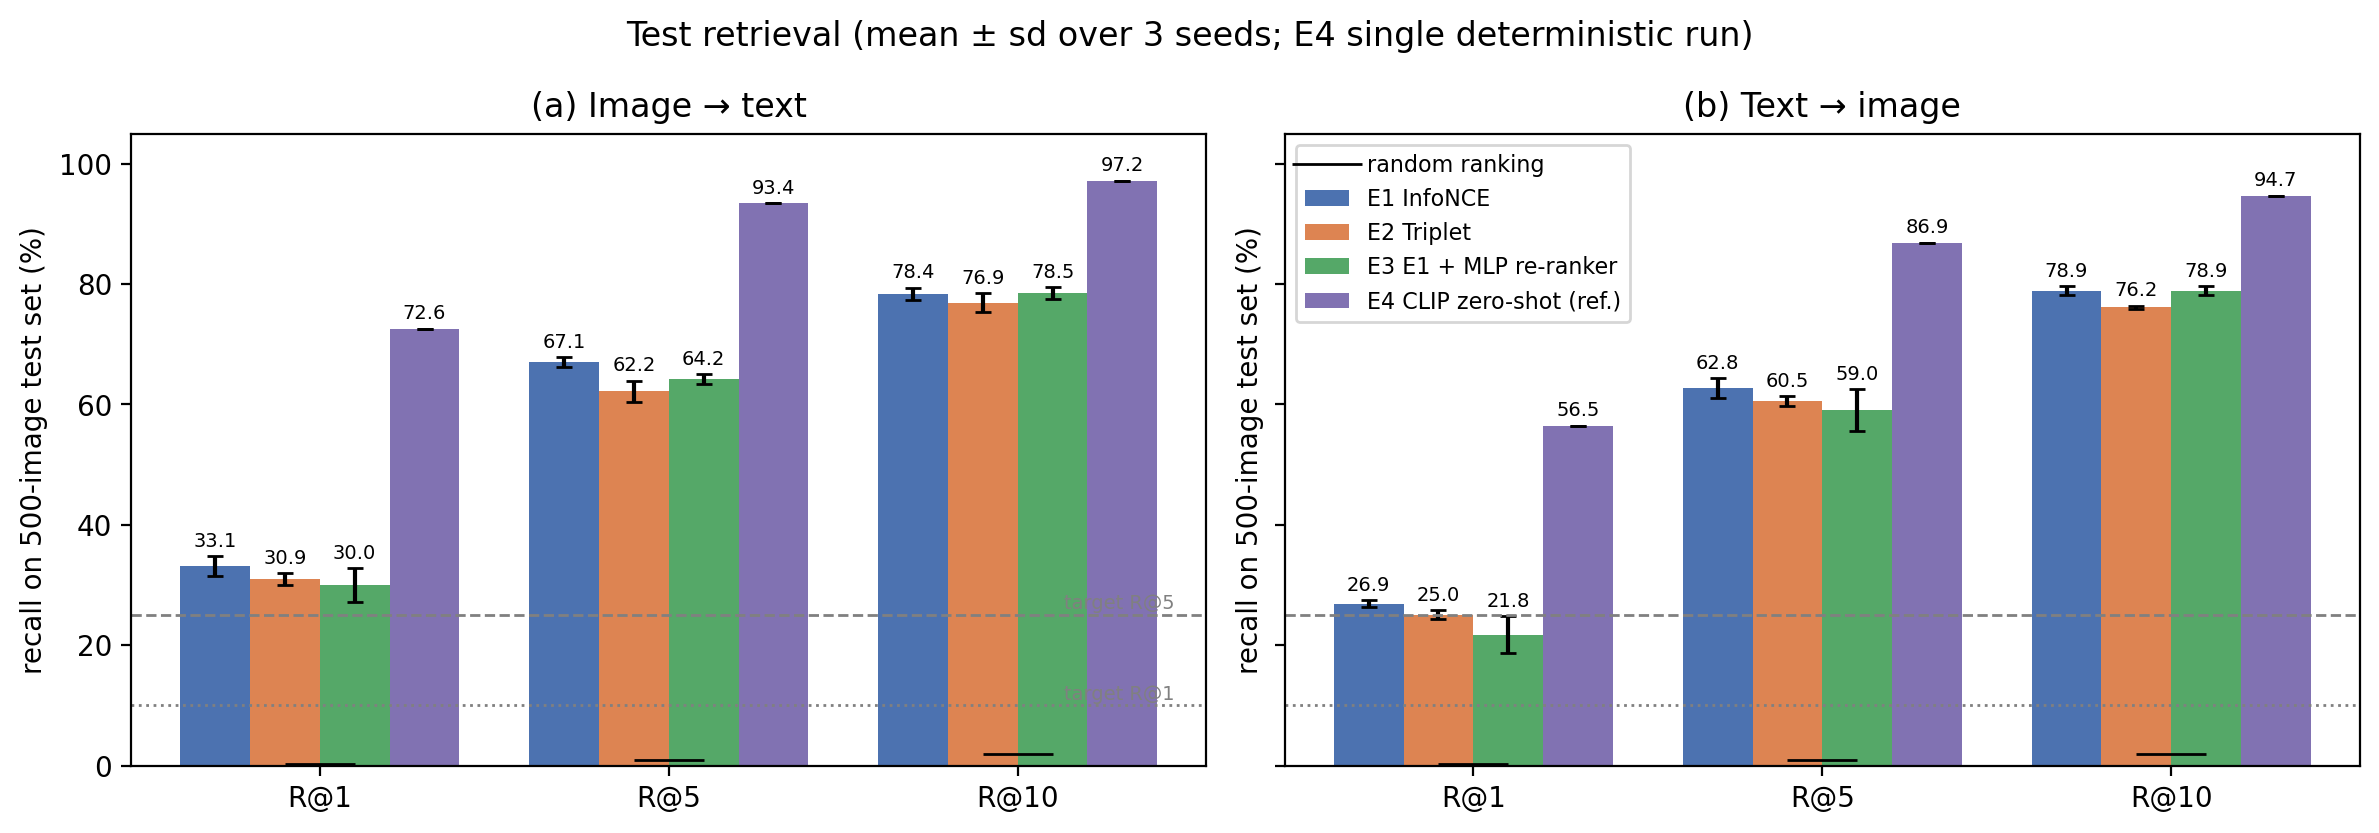
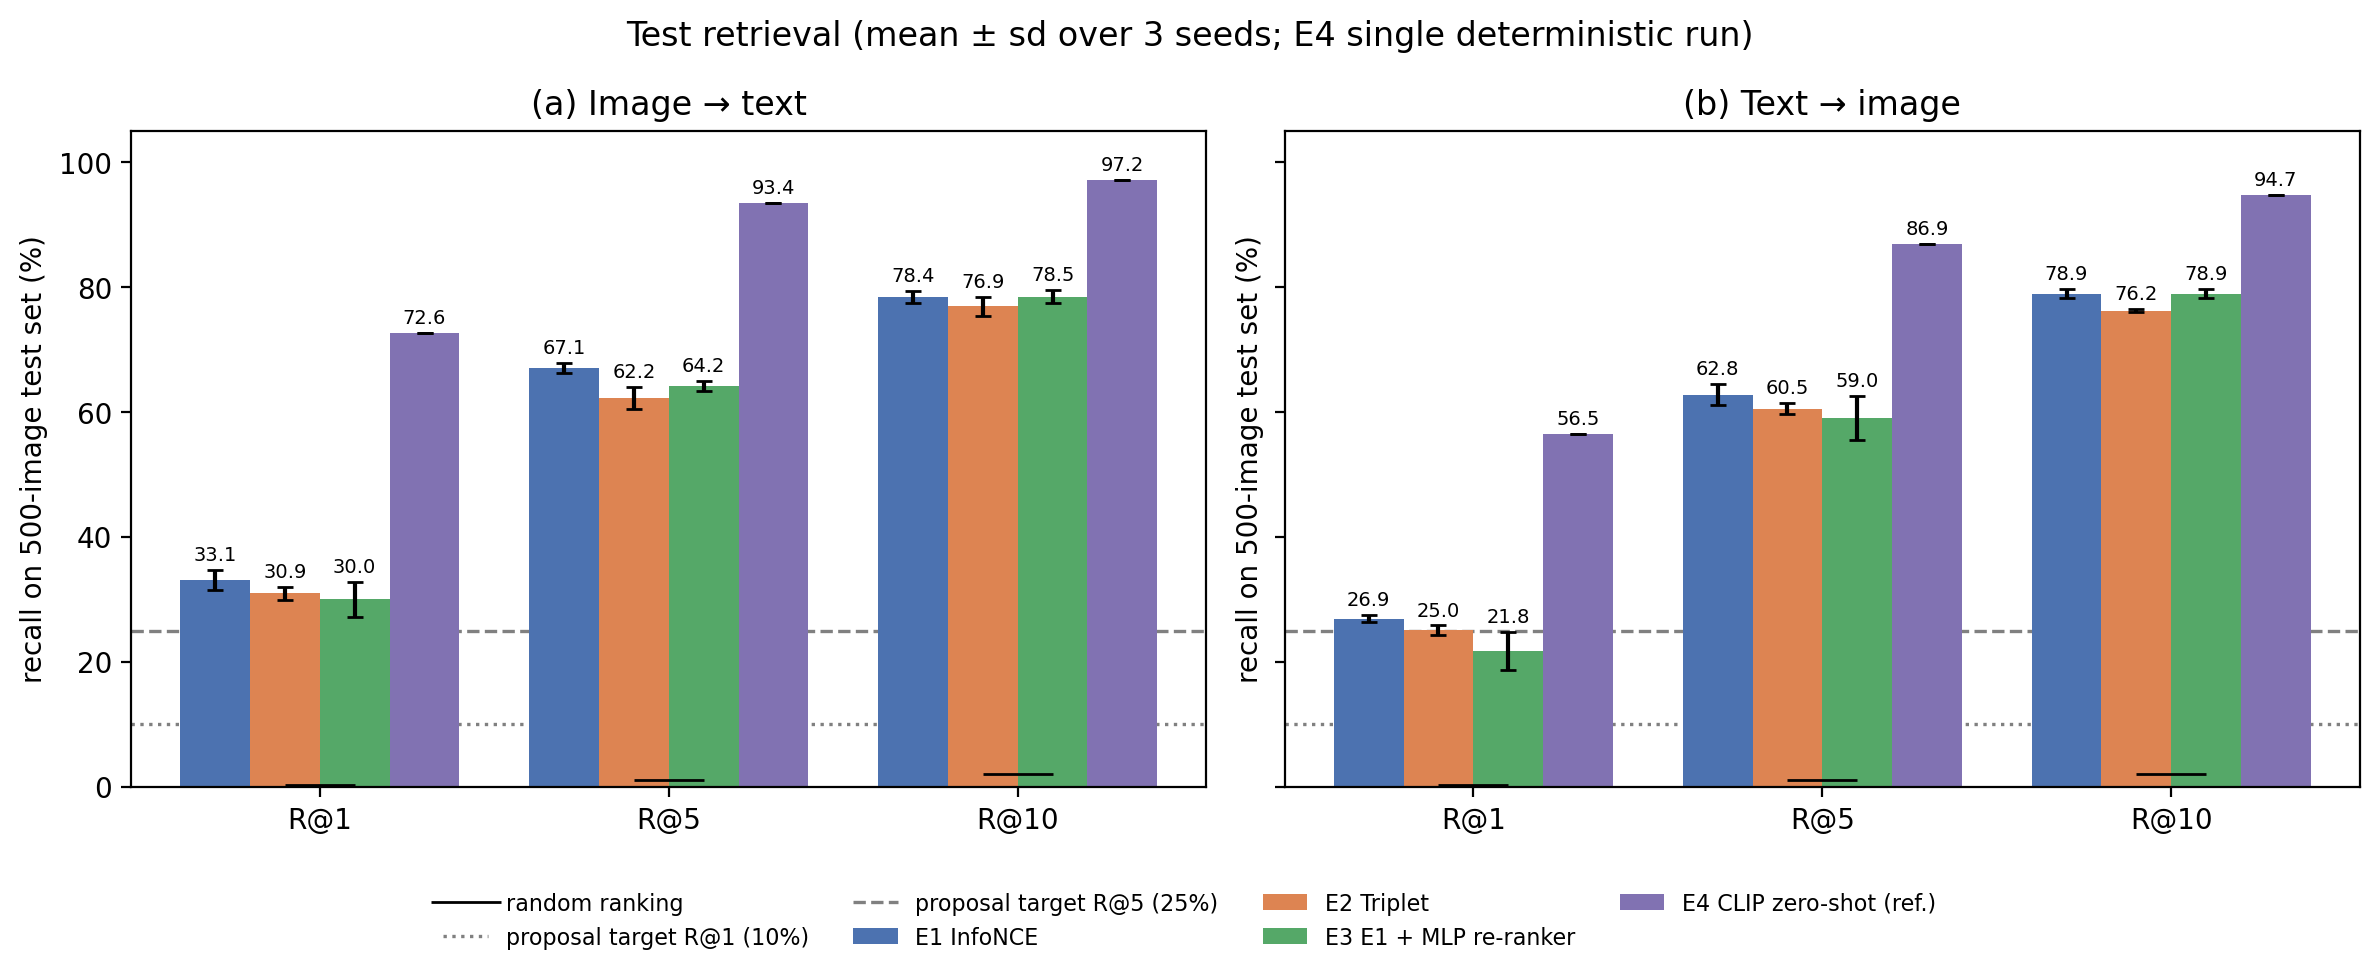
Verified licence names; clearer figure labels

diff --git a/src/plots.py b/src/plots.py
@@ -80,25 +80,25 @@ def plot_06():
     colors = {"E1": BLUE, "E2": ORANGE, "E3": "#55A868", "E4": "#8172B2"}
     labels = {"E1": "E1 InfoNCE", "E2": "E2 Triplet", "E3": "E3 E1 + MLP re-ranker", "E4": "E4 CLIP zero-shot (ref.)"}
     ks = ["R@1", "R@5", "R@10"]
-    fig, axes = plt.subplots(1, 2, figsize=(12, 4.2), sharey=True)
-    for ax, (direction, title) in zip(axes, (("i2t", "(a) Image → text"), ("t2i", "(b) Text → image"))):
+    fig, axes = plt.subplots(1, 2, figsize=(12, 4.8), sharey=True)
+    for ax, (direction, title) in zip(axes, (("i2t", "(a) Image \u2192 text"), ("t2i", "(b) Text \u2192 image"))):
         x = np.arange(len(ks))
         width = 0.2
         for i, (_, r) in enumerate(s.iterrows()):
             means = [r[f"{direction}_{k}_mean"] for k in ks]
             stds = [0 if pd.isna(r[f"{direction}_{k}_std"]) else r[f"{direction}_{k}_std"] for k in ks]
             bars = ax.bar(x + (i - 1.5) * width, means, width, yerr=stds, capsize=3,
-                          color=colors[r["code"]], label=labels[r["code"]])
+                          color=colors[r["code"]], label=labels[r["code"]], zorder=2)
             ax.bar_label(bars, fmt="%.1f", fontsize=7, padding=2)
-        ax.plot(x, [rb[f"{direction}_{k}"] for k in ks], "k_", markersize=25, label="random ranking")
-        ax.axhline(10, color="grey", linestyle=":", linewidth=1)
-        ax.axhline(25, color="grey", linestyle="--", linewidth=1)
+        ax.plot(x, [rb[f"{direction}_{k}"] for k in ks], "k_", markersize=25, label="random ranking", zorder=3)
+        # Target lines are drawn behind the bars and named in the legend (no text labels on the plot).
+        ax.axhline(10, color="grey", linestyle=":", linewidth=1.2, zorder=1, label="proposal target R@1 (10%)")
+        ax.axhline(25, color="grey", linestyle="--", linewidth=1.2, zorder=1, label="proposal target R@5 (25%)")
         ax.set(title=title, xticks=x, xticklabels=ks, ylabel="recall on 500-image test set (%)", ylim=(0, 105))
-    axes[0].text(2.45, 11, "target R@1", fontsize=7, color="grey", ha="right")
-    axes[0].text(2.45, 26, "target R@5", fontsize=7, color="grey", ha="right")
-    axes[1].legend(loc="upper left", fontsize=8)
-    fig.suptitle("Test retrieval (mean ± sd over 3 seeds; E4 single deterministic run)")
-    fig.tight_layout()
+    handles, names = axes[0].get_legend_handles_labels()
+    fig.legend(handles, names, loc="lower center", ncol=4, fontsize=8, frameon=False)
+    fig.suptitle("Test retrieval (mean \u00b1 sd over 3 seeds; E4 single deterministic run)")
+    fig.tight_layout(rect=(0, 0.1, 1, 1))
     save_figure(fig, config.FIGURES / "06_test_recall.png")
     plt.close(fig)
 
@@ -109,7 +109,7 @@ def plot_07():
     labels = {"E1": "E1 InfoNCE", "E2": "E2 Triplet", "E3": "E3 re-ranker", "E4": "E4 CLIP (ref.)"}
     audit = pd.read_csv(config.RESULTS / "07_gender_audit.csv")
     scenes = pd.read_csv(config.RESULTS / "07_scene_groups.csv")
-    fig, axes = plt.subplots(1, 2, figsize=(13, 4.2), gridspec_kw={"width_ratios": [1, 1.6]})
+    fig, axes = plt.subplots(1, 2, figsize=(13, 5), gridspec_kw={"width_ratios": [1, 1.4]})
 
     groups = ["male terms", "female terms", "both", "neither"]
     x = np.arange(len(groups))
@@ -117,22 +117,27 @@ def plot_07():
         a = audit[audit["code"] == code].set_index("gender_group").reindex(groups)
         axes[0].bar(x + (i - 1.5) * 0.2, a["R@5"], 0.2, color=colors[code], label=labels[code])
     n = audit[audit["code"] == "E1"].set_index("gender_group").reindex(groups)["n_queries"]
-    axes[0].set(title="(a) Text → image R@5 by gendered words in the query", ylabel="R@5 on test (%)",
-                xticks=x, xticklabels=[f"{g}\n(n={int(c)})" for g, c in zip(groups, n)], ylim=(0, 100))
-    axes[0].legend(fontsize=8, loc="lower right")
+    axes[0].set(title="(a) By gendered words in the query", ylabel="text \u2192 image R@5 on test (%)",
+                xlabel="query group (n = test captions)",
+                xticks=x, xticklabels=[f"{g}\nn={int(c)}" for g, c in zip(groups, n)], ylim=(0, 100))
 
     names = list(dict.fromkeys(scenes["scene_group"]))
+    short = {"vehicles/street": "vehicles/\nstreet", "indoor rooms": "indoor\nrooms"}
     x = np.arange(len(names))
     for i, code in enumerate(["E1", "E2", "E3", "E4"]):
         s = scenes[scenes["code"] == code].set_index("scene_group").reindex(names)
         axes[1].bar(x + (i - 1.5) * 0.2, s["R@5"], 0.2, color=colors[code], label=labels[code])
     s1 = scenes[scenes["code"] == "E1"].set_index("scene_group").reindex(names)
-    axes[1].set(title="(b) Text → image R@5 by scene keyword group", ylabel="R@5 on test (%)", xticks=x,
-                xticklabels=[f"{g}\n(test n={int(t)}; {p:.1f}% of train)" for g, t, p in
+    axes[1].set(title="(b) By scene keyword group", ylabel="text \u2192 image R@5 on test (%)",
+                xlabel="scene group (n = test captions; % = share of training captions)", xticks=x,
+                xticklabels=[f"{short.get(g, g)}\nn={int(t)}\n{p:.1f}%" for g, t, p in
                              zip(names, s1["n_test_queries"], s1["share_of_train_captions_pct"])], ylim=(0, 100))
-    axes[1].tick_params(axis="x", labelsize=8)
+    for ax in axes:
+        ax.tick_params(axis="x", labelsize=9)
+    handles, lab = axes[0].get_legend_handles_labels()
+    fig.legend(handles, lab, loc="lower center", ncol=4, fontsize=9, frameon=False)
     fig.suptitle("Bias and scene-group audit on the test set (E1-E3: mean over 3 seeds)")
-    fig.tight_layout()
+    fig.tight_layout(rect=(0, 0.06, 1, 1))
     save_figure(fig, config.FIGURES / "07_bias_and_groups.png")
     plt.close(fig)
 

diff --git a/scripts/08_summary.py b/scripts/08_summary.py
@@ -106,7 +106,8 @@ add("|---|---|---|---|---|")
 for r in rows("01_split_summary.csv"):
     add(f"| {r['split']} | {r['n_images']} | {r['n_captions']} | {r['caption_words_mean']} | {src('01_split_summary.csv')} |")
 add("")
-add("Licence audit " + src("01_license_counts.csv") + " (licence names mapped from COCO licence IDs):")
+add("Licence audit " + src("01_license_counts.csv") + " (licence names mapped from COCO licence IDs; "
+    "verified against the official `annotations/captions_val2017.json`):")
 add("")
 add("| licence | train | val | test | total |")
 add("|---|---|---|---|---|")
@@ -249,6 +250,7 @@ for item in [
     "**Individual submission.** The proposal was written by a group of four; 2.2 is implemented individually.",
     "**Hardware.** Proposal pilot used a Tesla T4; this work used an RTX 3050 Laptop GPU with 4 GB (Section 1). "
     "Frozen encoders + cached features (Section 3) keep GPU memory low (peak values in Sections 3 and 7).",
+    "**Timeline.** The proposal's 26 Oct-1 Nov training block was compressed; all code and results were produced in one session on 3 Nov.",
     "**Added E4: zero-shot CLIP ViT-B/32** as a state-of-the-art reference (brief asks for comparison with SOTA). "
     "Not trained; reference only.",
     "**E3 re-ranker design.** Re-orders only E1's top-10; its input is E1's 256-d embeddings "
@@ -278,7 +280,9 @@ for item in [
     "CLIP encode times in `results/05_clip.json` include model loading and a background download; they are not speed measurements. "
     "CLIP's ms/query in Section 7 covers scoring only (embeddings precomputed).",
     "Whether CLIP's web pretraining data overlaps COCO images is unknown; its numbers may be optimistic for that reason.",
-    "COCO licence names were mapped from licence IDs 1-8 as listed in the official COCO 2017 annotation file; verify there.",
+    "COCO licence names: VERIFIED. The names for licence IDs 1-7 (all IDs present in this data) were checked "
+    "against the `licenses` field of the official `annotations/captions_val2017.json` and match "
+    "`results/01_license_counts.csv`.",
     "Gender groups are defined by words in captions (including pronouns), not by who is in the image; "
     "this cannot establish demographic fairness (as the proposal states).",
     "Scene groups overlap (a caption can match several) and are keyword-based approximations.",

diff --git a/config.py b/config.py
@@ -26,7 +26,8 @@ N_TEST = 500                      # train = all remaining images
 INVALID_CAPTION_PATTERNS = ["there is no image here"]
 
 # COCO licence IDs -> names, from the "licenses" field of the official COCO
-# 2017 annotation file (cocodataset.org). Used only for the licence audit.
+# 2017 annotation file (cocodataset.org). IDs 1-7 verified against
+# annotations/captions_val2017.json. Used only for the licence audit.
 COCO_LICENSES = {
     1: "CC BY-NC-SA 2.0",
     2: "CC BY-NC 2.0",

diff --git a/results_summary.md b/results_summary.md
@@ -51,7 +51,7 @@ Settings `results/00_config.json` (copied from `config.py`):
 | val | 500 | 2499 | 10.44 | `results/01_split_summary.csv` |
 | test | 500 | 2498 | 10.41 | `results/01_split_summary.csv` |
 
-Licence audit `results/01_license_counts.csv` (licence names mapped from COCO licence IDs):
+Licence audit `results/01_license_counts.csv` (licence names mapped from COCO licence IDs; verified against the official `annotations/captions_val2017.json`):
 
 | licence | train | val | test | total |
 |---|---|---|---|---|
@@ -234,6 +234,7 @@ Rank 0 = correct image ranked first. Figure: `results/figures/07_bias_and_groups
 
 - **Individual submission.** The proposal was written by a group of four; 2.2 is implemented individually.
 - **Hardware.** Proposal pilot used a Tesla T4; this work used an RTX 3050 Laptop GPU with 4 GB (Section 1). Frozen encoders + cached features (Section 3) keep GPU memory low (peak values in Sections 3 and 7).
+- **Timeline.** The proposal's 26 Oct-1 Nov training block was compressed; all code and results were produced in one session on 3 Nov.
 - **Added E4: zero-shot CLIP ViT-B/32** as a state-of-the-art reference (brief asks for comparison with SOTA). Not trained; reference only.
 - **E3 re-ranker design.** Re-orders only E1's top-10; its input is E1's 256-d embeddings [image, caption, image*caption], not the raw ResNet/BERT features. Trained on E1's hard negatives.
 - **One caption per image per epoch** during dual-encoder training, so two captions of the same image never appear as a 'wrong' pair in one batch.
@@ -250,7 +251,7 @@ Rank 0 = correct image ranked first. Figure: `results/figures/07_bias_and_groups
 - E3 i2t R@10 differs slightly from E1 in some seeds although re-ranking cannot change top-10 membership. Likely cause (not verified): exact score ties from identical caption texts at the top-10 boundary - E1's pessimistic tie rule counts them against the model, while E3's top-10 shortlist can include the correct item.
 - CLIP encode times in `results/05_clip.json` include model loading and a background download; they are not speed measurements. CLIP's ms/query in Section 7 covers scoring only (embeddings precomputed).
 - Whether CLIP's web pretraining data overlaps COCO images is unknown; its numbers may be optimistic for that reason.
-- COCO licence names were mapped from licence IDs 1-8 as listed in the official COCO 2017 annotation file; verify there.
+- COCO licence names: VERIFIED. The names for licence IDs 1-7 (all IDs present in this data) were checked against the `licenses` field of the official `annotations/captions_val2017.json` and match `results/01_license_counts.csv`.
 - Gender groups are defined by words in captions (including pronouns), not by who is in the image; this cannot establish demographic fairness (as the proposal states).
 - Scene groups overlap (a caption can match several) and are keyword-based approximations.
 
